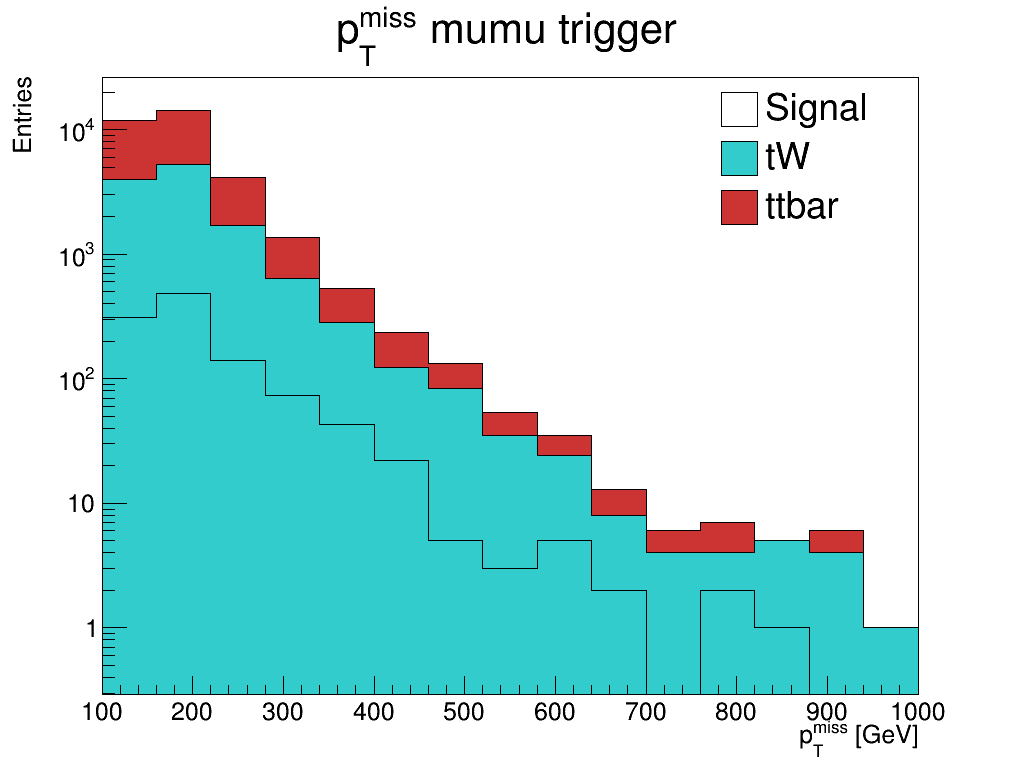
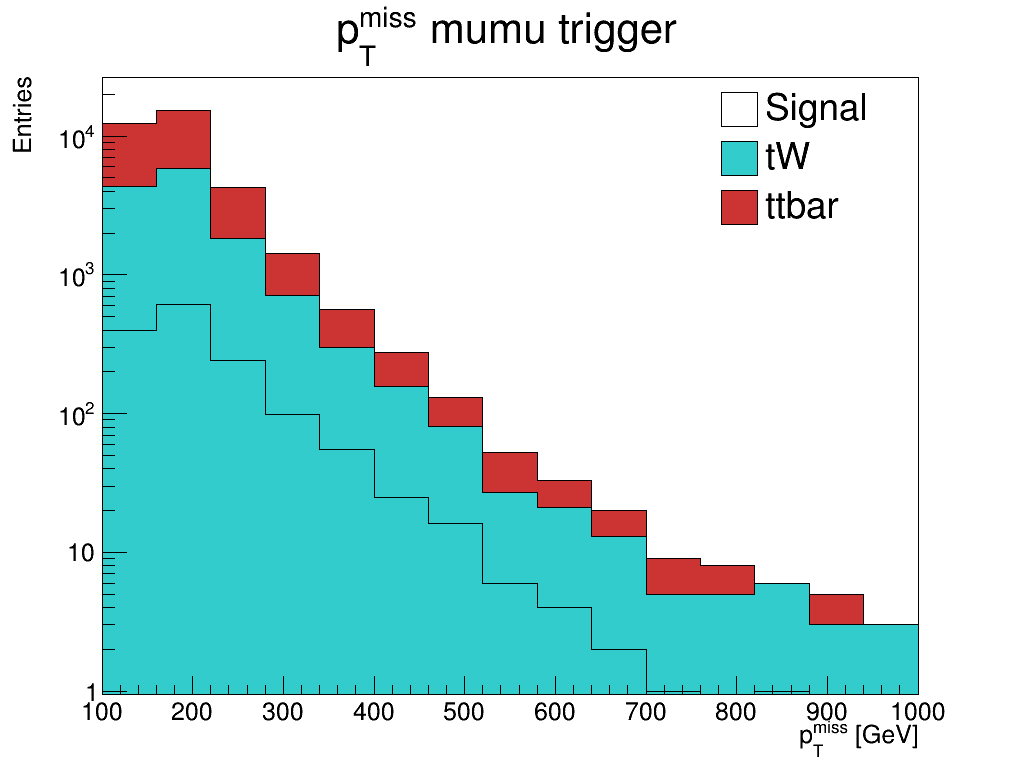
New modification and plots

diff --git a/ExpPhysFinalProyect/LastReport/Code/LastReport_Analysis_Trial.C b/ExpPhysFinalProyect/LastReport/Code/LastReport_Analysis_Trial.C
@@ -12,6 +12,7 @@ class Analysis
         array<Float_t, 1000000> electronPT_emu, electronEta_emu, electronPhi_emu;
         array<Float_t, 1000000> muonPT_emu, muonEta_emu, muonPhi_emu;
         array<Float_t, 1000000> missingMET, missingEta, missingPhi;
+        array<Float_t, 1000000> CrossSection_ee, CrossSection_mumu, CrossSection_emu;
         array<Float_t, 1000000> jetPT, jetEta;
         array<UInt_t , 1000000> jetBTag;
         bool electronTrigger = false;
@@ -48,25 +49,29 @@ class Analysis
             TClonesArray *branchMuon     = treeReader -> UseBranch("Muon");
             TClonesArray *branchMET	     = treeReader -> UseBranch("MissingET");
             TClonesArray *branchJet	     = treeReader -> UseBranch("Jet");
+            TClonesArray *branchEvent	 = treeReader -> UseBranch("Event");
 
             // ee trigger histograms
             //SRs
             TH1F *histMT2_ee_1j0t   = new TH1F("histMT2_ee_1j0t"  , "MT2 ee 1j0t"         , 15, 0, 500);
             TH1F *histMT2_ee_1j1t   = new TH1F("histMT2_ee_1j1t"  , "MT2 ee 0j1t"         , 15, 0, 500);
             TH1F *histMET_ee        = new TH1F("histMET_ee"       , "p^{miss}_{T} ee"     , 15, 100, 1000);
+            TProfile *cross_section_ee = new TProfile("cross_section_ee", "Cross section vs MT2 ee", 100, 0, 1000, 0, 5);
             
             // mumu trigger histograms
             //SRs
             TH1F *histMT2_mumu_1j0t   = new TH1F("histMT2_mumu_1j0t"  , "MT2 mumu 1j0t"         , 15, 0, 500);
             TH1F *histMT2_mumu_1j1t   = new TH1F("histMT2_mumu_1j1t"  , "MT2 mumu 0j1t"         , 15, 0, 500);
             TH1F *histMET_mumu        = new TH1F("histMET_mumu"       , "p^{miss}_{T} mumu"     , 15, 100, 1000);
+            TProfile *cross_section_mumu = new TProfile("cross_section_mumu", "Cross section vs MT2 mumu", 100, 0, 1000, 0, 5);
 
             // emu trigger histograms
             //SRs
             TH1F *histMT2_emu_1j0t   = new TH1F("histMT2_emu_1j0t"  , "MT2 emu 1j0t"         , 15, 0, 500);
             TH1F *histMT2_emu_1j1t   = new TH1F("histMT2_emu_1j1t"  , "MT2 emu 1j1t"         , 15, 0, 500);
             TH1F *histMET_emu        = new TH1F("histMET_emu"       , "p^{miss}_{T} emu"     , 15, 100, 1000);
-            
+            TProfile *cross_section_emu = new TProfile("cross_section_emu", "Cross section vs MT2 emu", 100, 0, 1000, 0, 5);
+      
             // Loop over all events
             for(UInt_t entry = 0; entry < numberOfEntries; ++entry)
             {
@@ -76,28 +81,34 @@ class Analysis
                 // Load selected branches with data from specified event
                 treeReader -> ReadEntry(entry); 
 
-                if(branchElectron -> GetEntries() == 2) 
+                if(branchElectron -> GetEntries() == 2 && branchMuon -> GetEntries() == 0 && branchEvent -> GetEntries() > 0) 
                 {
                     Electron *electron = (Electron*)  branchElectron -> At(0);
+                    LHEFEvent *event = (LHEFEvent*) branchEvent -> At(0);
+                    CrossSection_ee.fill(event -> CrossSection);
                     electronPT.fill(electron -> PT);
                     electronEta.fill(electron -> Eta);
                     electronPhi.fill(electron -> Phi);
                     !electronTrigger;            
                 }
 
-                if(branchMuon -> GetEntries() == 2) 
+                if(branchElectron -> GetEntries() == 0 && branchMuon -> GetEntries() == 2 && branchEvent -> GetEntries() > 0) 
                 {
                     Muon *muon = (Muon*) branchMuon -> At(0);
+                    LHEFEvent *event = (LHEFEvent*) branchEvent -> At(0);
+                    CrossSection_mumu.fill(event -> CrossSection);
                     muonPT.fill(muon -> PT);
                     muonEta.fill(muon -> Eta);
                     muonPhi.fill(muon -> Phi);
                     !muonTrigger;             
                 }
 
-                if(branchMuon -> GetEntries() == 1 && branchElectron -> GetEntries() == 1)  
+                if(branchMuon -> GetEntries() == 1 && branchElectron -> GetEntries() == 1 && branchEvent -> GetEntries() > 0)  
                 {
                     Electron *electron_emu = (Electron*)  branchElectron -> At(0);
                     Muon *muon_emu = (Muon*) branchMuon -> At(0);
+                    LHEFEvent *event = (LHEFEvent*) branchEvent -> At(0);
+                    CrossSection_emu.fill(event -> CrossSection);
                     electronPT_emu.fill(electron_emu -> PT);
                     electronEta_emu.fill(electron_emu -> Eta);
                     electronPhi_emu.fill(electron_emu -> Phi);
@@ -146,22 +157,21 @@ class Analysis
                                 if (jetPT.at(entry) > 20 && TMath::Abs(jetEta.at(entry)) < 2.4)
                                 { 
                                     Float_t PT_miss_ee = Missing_ee.Pt();
+                                    ComputeMT2 calcMT2_ee = ComputeMT2(l1_ee, l2_ee, Missing_ee);       
+                                    Float_t MT2_ee = calcMT2_ee.Compute();
 
                                     if (jetBTag.at(entry) == 0)
                                     {
-                                        ComputeMT2 calcMT2_ee = ComputeMT2(l1_ee, l2_ee, Missing_ee);       
-                                        Float_t MT2_ee = calcMT2_ee.Compute();
                                         histMT2_ee_1j0t -> Fill(MT2_ee, weights);
                                     }
 
                                     if (jetBTag.at(entry) == 1)
                                     {
-                                        ComputeMT2 calcMT2_ee = ComputeMT2(l1_ee, l2_ee, Missing_ee);       
-                                        Float_t MT2_ee = calcMT2_ee.Compute();
                                         histMT2_ee_1j1t -> Fill(MT2_ee, weights);
                                     }
 
                                     histMET_ee -> Fill(PT_miss_ee, weights);
+                                    cross_section_ee -> Fill(MT2_ee, CrossSection_ee.at(entry), 1);
                                 } 
                             }      
                         }
@@ -173,13 +183,13 @@ class Analysis
                 {
                     TLorentzVector l1_mumu, l2_mumu, Missing_mumu, dileptons_mumu;
 
-                    if (electronPT.at(entry) >= 25 && TMath::Abs(electronEta.at(entry)) < 2.4)
+                    if (muonPT.at(entry) >= 25 && TMath::Abs(muonEta.at(entry)) < 2.4)
                     {
-                        l1_mumu.SetPtEtaPhiM(electronPT.at(entry), electronEta.at(entry), electronPhi.at(entry), 0); 
+                        l1_mumu.SetPtEtaPhiM(muonPT.at(entry), muonEta.at(entry), muonPhi.at(entry), 0); 
                         
-                        if (electronPT.at(entry) >= 20 && TMath::Abs(electronEta.at(entry)) < 2.4)
+                        if (muonPT.at(entry) >= 20 && TMath::Abs(muonEta.at(entry)) < 2.4)
                         {
-                            l2_mumu.SetPtEtaPhiM(electronPT.at(entry), electronEta.at(entry), electronPhi.at(entry), 0);     
+                            l2_mumu.SetPtEtaPhiM(muonPT.at(entry), muonEta.at(entry), muonPhi.at(entry), 0);     
                             dileptons_mumu = l1_mumu + l2_mumu;
                             Float_t Mll_mumu = TMath::Abs(dileptons_mumu.M()*pow(10,7));
                             Missing_mumu.SetPtEtaPhiM(missingMET.at(entry), missingEta.at(entry), missingPhi.at(entry), 0.);
@@ -189,22 +199,21 @@ class Analysis
                                 if (jetPT.at(entry) > 20 && TMath::Abs(jetEta.at(entry)) < 2.4)
                                 { 
                                     Float_t PT_miss_mumu = Missing_mumu.Pt();
+                                    ComputeMT2 calcMT2_mumu = ComputeMT2(l1_mumu, l2_mumu, Missing_mumu);       
+                                    Float_t MT2_mumu = calcMT2_mumu.Compute();
 
                                     if (jetBTag.at(entry) == 0)
                                     {
-                                        ComputeMT2 calcMT2_mumu = ComputeMT2(l1_mumu, l2_mumu, Missing_mumu);       
-                                        Float_t MT2_mumu = calcMT2_mumu.Compute();
                                         histMT2_mumu_1j0t -> Fill(MT2_mumu, weights);
                                     }
 
                                     if (jetBTag.at(entry) == 1)
                                     {
-                                        ComputeMT2 calcMT2_mumu = ComputeMT2(l1_mumu, l2_mumu, Missing_mumu);       
-                                        Float_t MT2_mumu = calcMT2_mumu.Compute();
                                         histMT2_mumu_1j1t -> Fill(MT2_mumu, weights);
                                     }
 
                                     histMET_mumu -> Fill(PT_miss_mumu, weights);
+                                    cross_section_mumu -> Fill(MT2_mumu, CrossSection_mumu.at(entry), 1);
                                 } 
                             }      
                         }
@@ -233,22 +242,21 @@ class Analysis
                                 if (jetPT.at(entry) > 20 && TMath::Abs(jetEta.at(entry)) < 2.4)
                                 { 
                                     Float_t PT_miss_emu = Missing_emu.Pt();
+                                    ComputeMT2 calcMT2_emu = ComputeMT2(l1_emu, l2_emu, Missing_emu);       
+                                    Float_t MT2_emu = calcMT2_emu.Compute();
 
                                     if (jetBTag.at(entry) == 0)
                                     {
-                                        ComputeMT2 calcMT2_emu = ComputeMT2(l1_emu, l2_emu, Missing_emu);       
-                                        Float_t MT2_emu = calcMT2_emu.Compute();
                                         histMT2_emu_1j0t -> Fill(MT2_emu, weights);
                                     }
 
                                     if (jetBTag.at(entry) == 1)
                                     {
-                                        ComputeMT2 calcMT2_emu = ComputeMT2(l1_emu, l2_emu, Missing_emu);       
-                                        Float_t MT2_emu = calcMT2_emu.Compute();
                                         histMT2_emu_1j1t -> Fill(MT2_emu, weights);
                                     }
 
                                     histMET_emu -> Fill(PT_miss_emu, weights);
+                                    cross_section_emu -> Fill(MT2_emu, CrossSection_emu.at(entry), 1);
                                 }
                             }      
                         }
@@ -271,22 +279,21 @@ class Analysis
                                 if (jetPT.at(entry) > 20 && TMath::Abs(jetEta.at(entry)) < 2.4)
                                 { 
                                     Float_t PT_miss_emu = Missing_emu.Pt();
+                                    ComputeMT2 calcMT2_emu = ComputeMT2(l1_emu, l2_emu, Missing_emu);       
+                                    Float_t MT2_emu = calcMT2_emu.Compute();
 
                                     if (jetBTag.at(entry) == 0)
                                     {
-                                        ComputeMT2 calcMT2_emu = ComputeMT2(l1_emu, l2_emu, Missing_emu);       
-                                        Float_t MT2_emu = calcMT2_emu.Compute();
                                         histMT2_emu_1j0t -> Fill(MT2_emu, weights);
                                     }
 
                                     if (jetBTag.at(entry) == 1)
                                     {
-                                        ComputeMT2 calcMT2_emu = ComputeMT2(l1_emu, l2_emu, Missing_emu);       
-                                        Float_t MT2_emu = calcMT2_emu.Compute();
                                         histMT2_emu_1j1t -> Fill(MT2_emu, weights);
                                     }
 
                                     histMET_emu -> Fill(PT_miss_emu, weights);
+                                    cross_section_emu -> Fill(MT2_emu, CrossSection_emu.at(entry), 1);
                                 }
                             }      
                         }
@@ -317,6 +324,10 @@ class Analysis
             jetPT.fill(0); 
             jetEta.fill(0);
             jetBTag.fill(0);
+
+            CrossSection_ee.fill(0);
+            CrossSection_mumu.fill(0);
+            CrossSection_emu.fill(0);
              
             file_name << "Hists_" << hist_names << ".root";
             TFile *f = new TFile(file_name.str().c_str(), "RECREATE");
@@ -326,18 +337,21 @@ class Analysis
             histMT2_ee_1j0t -> Write("", TObject::kOverwrite); 
             histMT2_ee_1j1t -> Write("", TObject::kOverwrite);
             histMET_ee -> Write("", TObject::kOverwrite);
+            cross_section_ee -> Write("", TObject::kOverwrite);
         
             //mumu trigger
             //SRs
             histMT2_mumu_1j0t -> Write("", TObject::kOverwrite); 
             histMT2_mumu_1j1t -> Write("", TObject::kOverwrite);
             histMET_mumu -> Write("", TObject::kOverwrite);
+            cross_section_mumu -> Write("", TObject::kOverwrite);
             
             //emu trigger
             //SRs
             histMT2_emu_1j0t -> Write("", TObject::kOverwrite); 
             histMT2_emu_1j1t -> Write("", TObject::kOverwrite);
             histMET_emu -> Write("", TObject::kOverwrite);
+            cross_section_emu -> Write("", TObject::kOverwrite);
         }
 
         virtual ~Analysis() 
@@ -354,8 +368,7 @@ void LastReport_Analysis_Trial()
                                   ,"/data/atlas/dbetalhc/exphys/tW_events/tW/Events/"
                                  };
     vector<TString> Hist_names = {"signal", "ttbar", "tW"};
-    //vector<Float_t> Weights  = {0.000021       , 3      ,  19.5};
-    //vector<Float_t> Weights    = {0.00021       , 30      ,  195};
+    //vector<Float_t> Weights    = {0.06       , 1.2      ,  19.5};
     vector<Float_t> Weights    = {1       , 1      ,  1};
 
     Analysis *obj1 = new Analysis();
